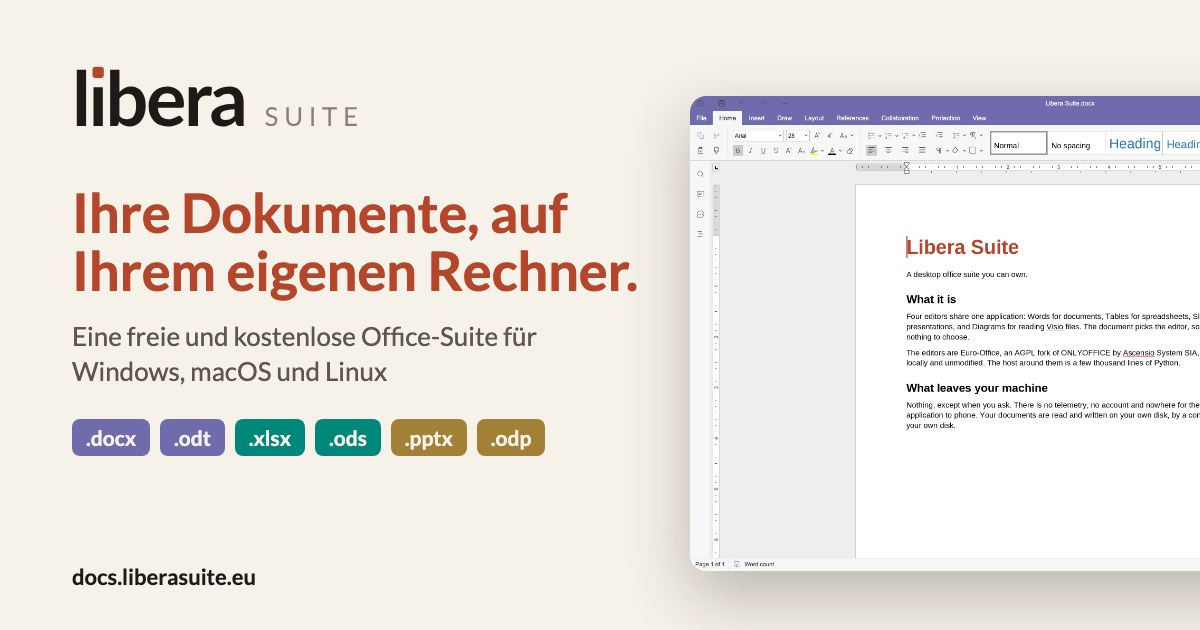
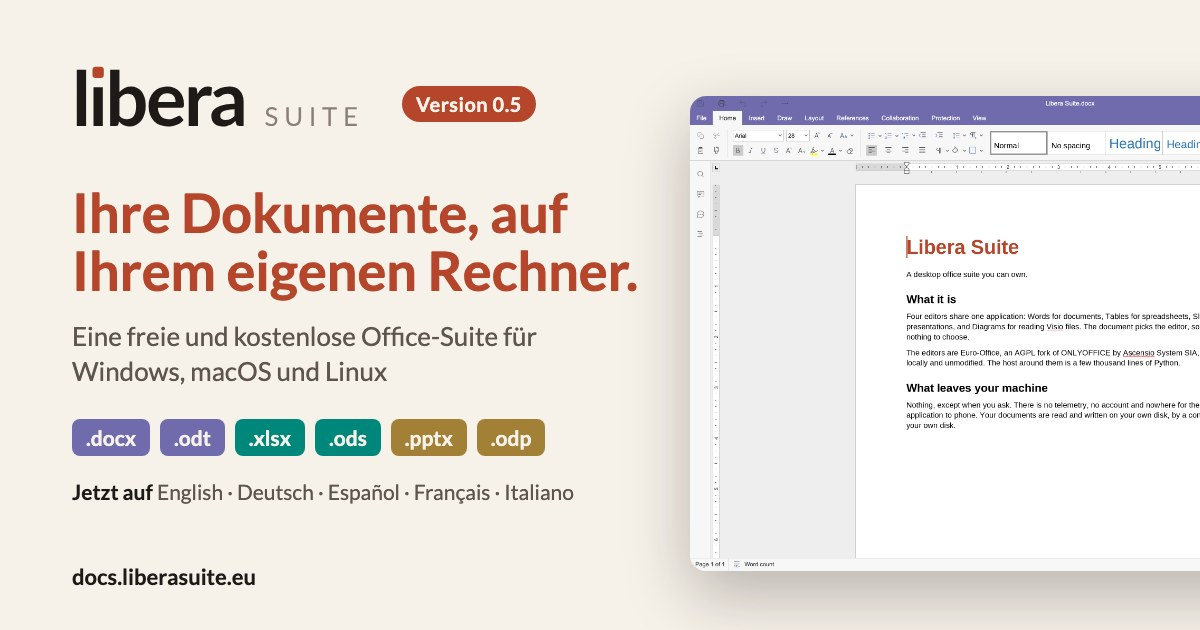
docs: add version and interface languages to the Open Graph cards
The badge shows the application's minor version, read from
pyproject.toml, and the last line lists the languages the interface
speaks, read from the locale catalogues, so both are current whenever
the cards are drawn. The new card_version and card_now_in strings in
editions.toml carry the wording for each edition.

Changed region(s): [[0.0617, 0.754, 0.4625, 0.8143], [0.3083, 0.1206, 0.4625, 0.2111]]

diff --git a/docs/cards.py b/docs/cards.py
@@ -3,15 +3,20 @@
 
     uv run --project .. --with playwright python cards.py
 
-One per edition, in its own language, from `card_tagline` and `card_line` in
-editions.toml, written to src/assets/og/card-<lang>.jpg, which is where
-overrides/main.html points og:image. 1200 by 630 is the size the networks crop
-least.
+One per edition, in its own language, from `card_tagline`, `card_line`,
+`card_version` and `card_now_in` in editions.toml, written to
+src/assets/og/card-<lang>.jpg, which is where overrides/main.html points
+og:image. 1200 by 630 is the size the networks crop least.
+
+The badge carries the application's version, from pyproject.toml, and the
+last line the languages its interface speaks: English, and one per catalogue
+in src/libera/host/locale/. Both are read when the cards are drawn, so they
+are as current as the last run.
 
 The wordmark is figures/brand/wordmark-suite.svg, copied from the branding
 repository like the application's icon; do not edit it here. Lato comes from
 Google Fonts, so drawing the cards needs the network. Regenerate after changing
-a tagline, the brand or the Words screenshot.
+a tagline, the brand or the Words screenshot, and at each minor release.
 """
 
 from __future__ import annotations
@@ -26,6 +31,18 @@ from playwright.sync_api import sync_playwright
 
 DOCS = Path(__file__).parent
 OUT = DOCS / "src" / "assets" / "og"
+LOCALES = DOCS.parent / "src" / "libera" / "host" / "locale"
+
+# Each interface language under its own name. A catalogue with no name here
+# stops the drawing: add it.
+ENDONYMS = {
+    "en": "English",
+    "fr": "Français",
+    "de": "Deutsch",
+    "it": "Italiano",
+    "es": "Español",
+    "nl": "Nederlands",
+}
 
 CARD = Template("""<!doctype html>
 <meta charset="utf-8">
@@ -45,10 +62,16 @@ CARD = Template("""<!doctype html>
   .slides { background: #A28137; }
   .url { position: absolute; left: 72px; bottom: 40px;
          font-size: 22px; font-weight: 700; }
+  .version { position: absolute; left: 330px; top: 22px; padding: 6px 14px;
+             border-radius: 999px; background: #B5462B; color: #F6F1E9;
+             font-size: 20px; font-weight: 700; letter-spacing: 0.5px; }
+  .langs { margin-top: 22px; font-size: 21px; color: #5E554E; }
+  .langs b { color: #1E1A17; }
   .shot { position: absolute; left: 690px; top: 96px; width: 760px; border-radius: 16px;
           box-shadow: 0 24px 64px rgba(30, 26, 23, 0.28); }
 </style>
 <div class="text">
+  <span class="version">$version</span>
   <img class="wordmark" src="$wordmark" alt="">
   <h1>$tagline</h1>
   <p>$line</p>
@@ -57,6 +80,7 @@ CARD = Template("""<!doctype html>
     <span class="tables">.xlsx</span><span class="tables">.ods</span>
     <span class="slides">.pptx</span><span class="slides">.odp</span>
   </div>
+  <p class="langs"><b>$now_in</b> $languages</p>
 </div>
 <img class="shot" src="$shot" alt="">
 <div class="url">docs.liberasuite.eu</div>
@@ -67,8 +91,20 @@ def data_uri(path: Path, mime: str) -> str:
     return f"data:{mime};base64,{base64.b64encode(path.read_bytes()).decode()}"
 
 
+def minor_version() -> str:
+    """0.5 for 0.5.0: a patch release does not need a new card."""
+    pyproject = tomllib.loads((DOCS.parent / "pyproject.toml").read_text("utf-8"))
+    return ".".join(pyproject["project"]["version"].split(".")[:2])
+
+
+def interface_languages() -> str:
+    codes = ["en", *sorted(p.stem for p in LOCALES.glob("*.json"))]
+    return " · ".join(ENDONYMS[code] for code in codes)
+
+
 def main() -> None:
     editions = tomllib.loads((DOCS / "editions.toml").read_text("utf-8"))
+    version, languages = minor_version(), interface_languages()
     images = {
         "wordmark": data_uri(
             DOCS / "figures/brand/wordmark-suite.svg", "image/svg+xml"
@@ -85,6 +121,9 @@ def main() -> None:
                     images,
                     tagline=html.escape(strings["card_tagline"]),
                     line=html.escape(strings["card_line"]),
+                    version=html.escape(f"{strings['card_version']} {version}"),
+                    now_in=html.escape(strings["card_now_in"]),
+                    languages=html.escape(languages),
                 ),
                 wait_until="networkidle",
             )
